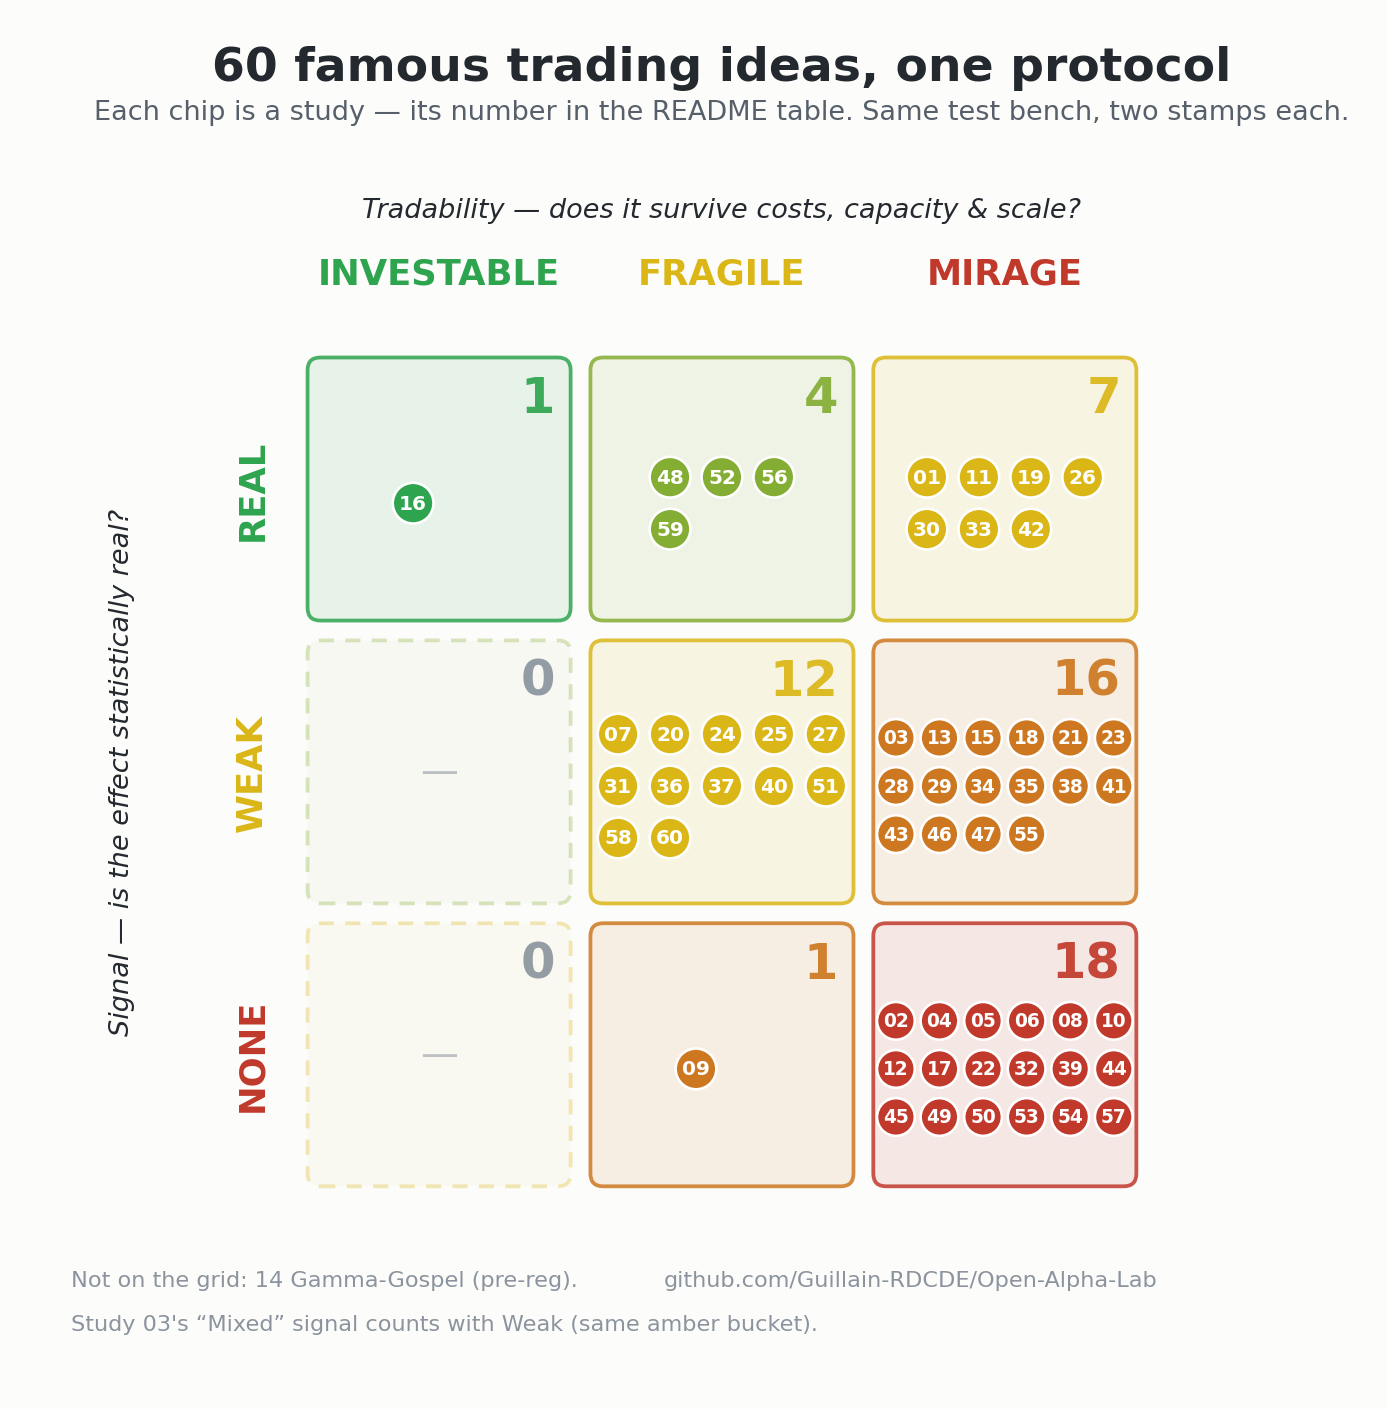
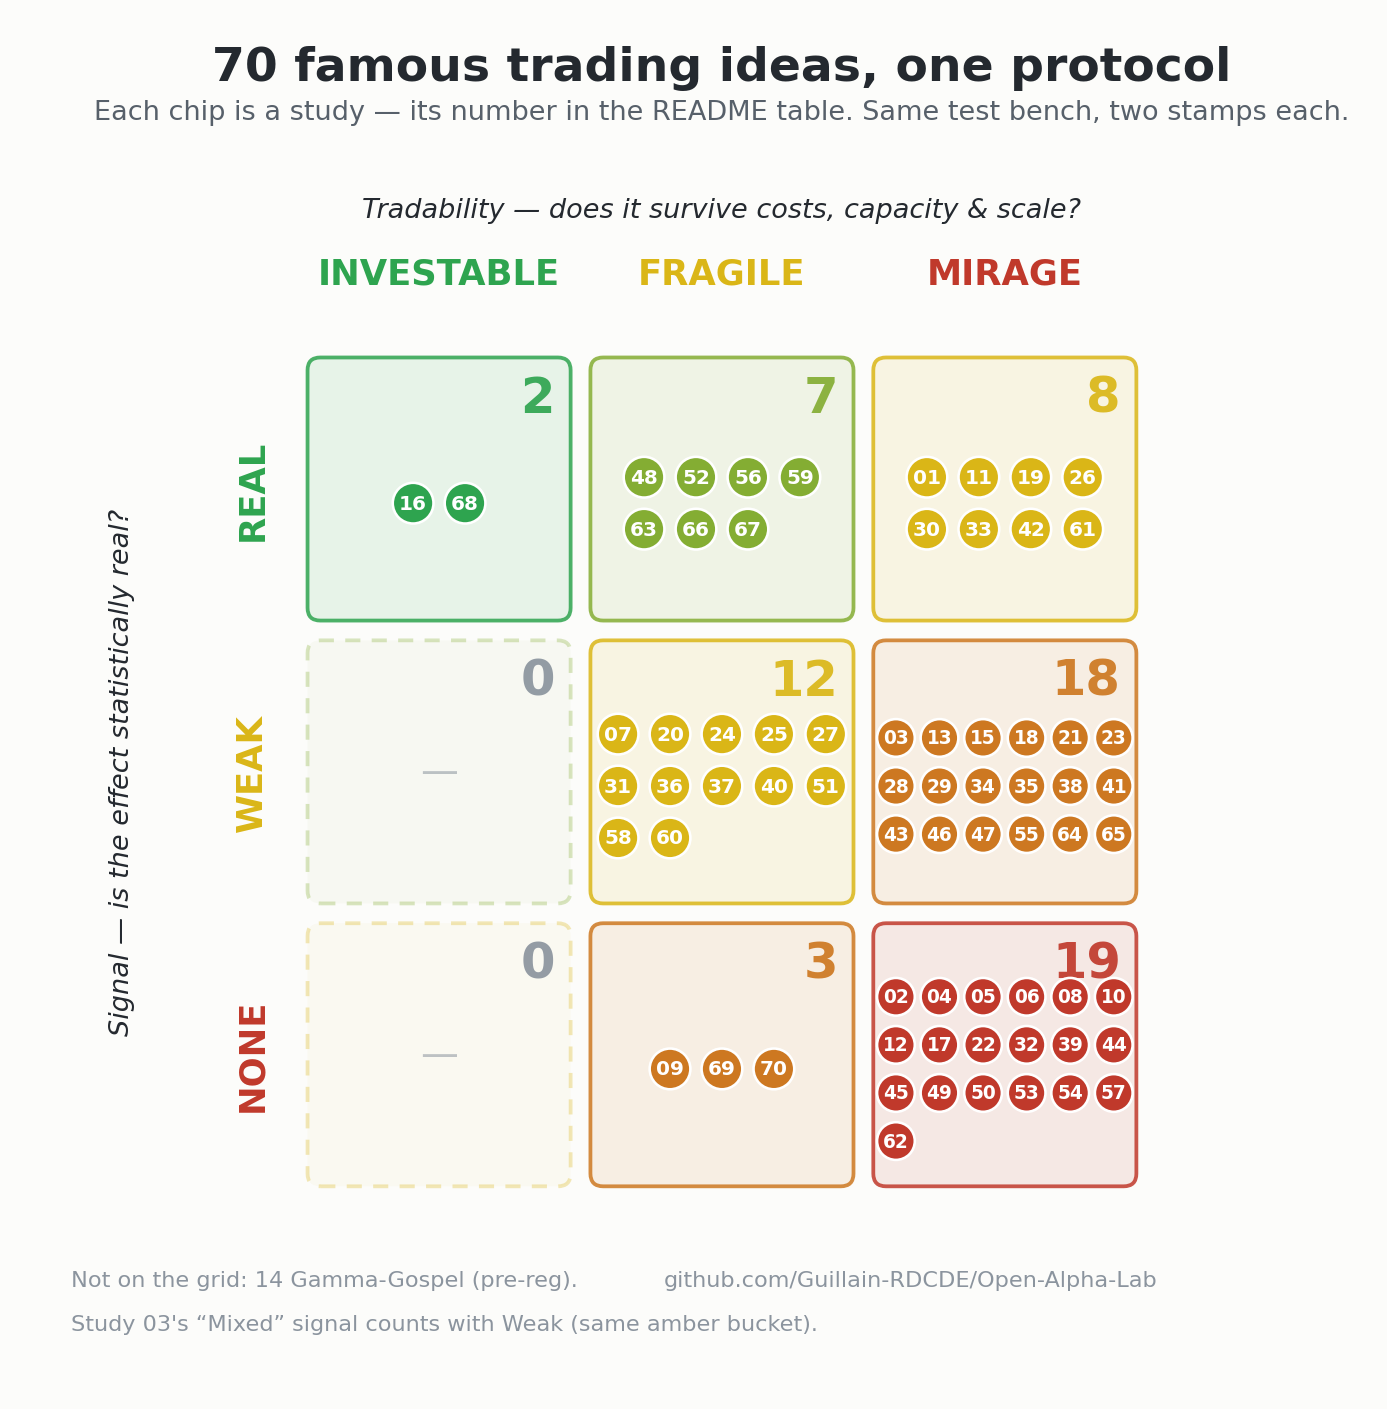
Bench page and map refreshed at 70 studies - two green chips now, neither predicts returns

diff --git a/docs/bench.md b/docs/bench.md
@@ -1,12 +1,12 @@
-# What 60 teardowns taught us
+# What 70 teardowns taught us
 
-*Sixty famous trading ideas — anomalies, folk strategies, vendor backtests, things
+*Seventy famous trading ideas — anomalies, folk strategies, vendor backtests, things
 people swear by — each put through the [same protocol](../METHODOLOGY.md) and
 stamped twice: **is the signal real?** and **does it survive real execution and
 scale?** This page is the view from above. It aggregates; it doesn't re-judge —
 every verdict below links back to the study that earned it.*
 
-![The bench map — 60 studies on a Signal × Tradability grid](bench_map.png)
+![The bench map — 70 studies on a Signal × Tradability grid](bench_map.png)
 
 *(Regenerate with `python tools/make_bench_figures.py` — it parses the
 [README table](../README.md), so it's always in sync.)*
@@ -15,50 +15,56 @@ every verdict below links back to the study that earned it.*
 
 ## The score
 
-Of the 60 studies on the bench, 59 carry final stamps (study
+Of the 70 studies on the bench, 69 carry final stamps (study
 [14](../studies/14-gamma-gospel/) is pre-registered, verdict pending):
 
 | | Investable | Fragile | Mirage | |
 |---|:--:|:--:|:--:|:--:|
-| **Real** | **1** | 5 | 7 | 13 |
-| **Weak** | 0 | 11 | 16 | 27 |
-| **None** | 0 | 1 | 18 | 19 |
-| | **1** | **17** | **41** | **59** |
+| **Real** | **2** | 7 | 8 | 17 |
+| **Weak** | 0 | 12 | 18 | 30 |
+| **None** | 0 | 3 | 19 | 22 |
+| | **2** | **22** | **45** | **69** |
 
 Read it the way the colours tell you to:
 
-- **13 / 59 signals are statistically real.** Roughly one famous idea in five
-  survives autocorrelation-robust inference. The other four-fifths are weak
-  (27) or plain noise (19).
-- **41 / 59 are mirages once you try to trade them.** Costs, capacity,
+- **17 / 69 signals are statistically real.** Roughly one famous idea in four
+  survives autocorrelation-robust inference. The other three-quarters are weak
+  (30) or plain noise (22).
+- **45 / 69 are mirages once you try to trade them.** Costs, capacity,
   decay, or the discovery that the "edge" was beta all along.
-- **Exactly 1 / 59 is investable.** [Storm-Shy](../studies/16-storm-shy/) —
-  and tellingly, it isn't a return predictor at all. It's a risk-management
-  overlay.
+- **Exactly 2 / 69 are investable.** [Storm-Shy](../studies/16-storm-shy/) and
+  [All-Weather](../studies/68-all-weather/) — and tellingly, neither is a
+  return predictor. One is a risk-management overlay, the other is
+  diversification. The bench's only greens don't forecast anything.
 
 The single most important cell isn't the green one — it's **Real × Mirage
-(7 studies)**. Seven effects that are *genuinely there in the data* and still
+(8 studies)**. Eight effects that are *genuinely there in the data* and still
 can't pay you. That gap between "true" and "tradable" is the bench's whole
 thesis, measured.
+
+A quieter cell worth a look: **None × Fragile (3 studies)** — gold
+[[69](../studies/69-safe-haven/)] and bitcoin [[70](../studies/70-digital-gold/)]
+flunk the *claims* made for them (inflation hedge, digital haven) yet keep a
+Fragile stamp as plain diversifiers. The story dies; the asset survives.
 
 ---
 
 ## Where ideas go to die — mortality by family
 
-We sorted the 60 into rough families. The boundaries are judgement calls (is
+We sorted the 70 into rough families. The boundaries are judgement calls (is
 the 52-week high a chart pattern or a momentum factor? we said factor) — the
 totals below are honest, the taxonomy is approximate.
 
 | Family | Studies | Real | Survived costs* | Investable |
 |---|:--:|:--:|:--:|:--:|
-| Equity factors & fundamentals — [18](../studies/18-dull-roar/) [34](../studies/34-aftershock/) [38](../studies/38-chorus/) [43](../studies/43-free-lunch/) [44](../studies/44-growth-spurt/) [45](../studies/45-vanishing-act/) [46](../studies/46-bargain-bin/) [50](../studies/50-high-water/) [51](../studies/51-blue-chip/) [52](../studies/52-smoke-screen/) [53](../studies/53-jackpot/) [54](../studies/54-static/) [57](../studies/57-yield-trap/) [58](../studies/58-bunker/) | 14 | 1 | 3 | 0 |
+| Equity factors & fundamentals — [18](../studies/18-dull-roar/) [34](../studies/34-aftershock/) [38](../studies/38-chorus/) [43](../studies/43-free-lunch/) [44](../studies/44-growth-spurt/) [45](../studies/45-vanishing-act/) [46](../studies/46-bargain-bin/) [50](../studies/50-high-water/) [51](../studies/51-blue-chip/) [52](../studies/52-smoke-screen/) [53](../studies/53-jackpot/) [54](../studies/54-static/) [57](../studies/57-yield-trap/) [58](../studies/58-bunker/) [64](../studies/64-share-shuffle/) [65](../studies/65-scorecard/) | 16 | 1 | 3 | 0 |
+| Vol, hedges & allocation — [03](../studies/03-fear-gauge/) [06](../studies/06-clockwork-vol/) [16](../studies/16-storm-shy/) [30](../studies/30-house-edge/) [61](../studies/61-slow-burn/) [62](../studies/62-premium-seller/) [63](../studies/63-free-fall/) [68](../studies/68-all-weather/) [69](../studies/69-safe-haven/) [70](../studies/70-digital-gold/) | 10 | 5 | 5 | **2** |
 | Technical & chart patterns — [02](../studies/02-falling-knife/) [07](../studies/07-coiled-spring/) [08](../studies/08-true-strength/) [13](../studies/13-crimson-hour/) [15](../studies/15-sigma-sleight/) [17](../studies/17-glass-ceiling/) [19](../studies/19-rubber-band/) [21](../studies/21-fools-gold/) [22](../studies/22-crystal-ball/) | 9 | 1 | 1 | 0 |
 | Momentum & trend — [20](../studies/20-freight-train/) [24](../studies/24-stampede/) [25](../studies/25-clean-slate/) [28](../studies/28-carousel/) [31](../studies/31-trade-winds/) [40](../studies/40-paper-tiger/) | 6 | 0 | 5 | 0 |
 | Carry, curves & commodities — [27](../studies/27-steamroller/) [29](../studies/29-hedgers-toll/) [35](../studies/35-contango/) [36](../studies/36-greenback/) [59](../studies/59-downhill/) [60](../studies/60-long-shot/) | 6 | 1 | 4 | 0 |
-| Calendar & seasonal — [01](../studies/01-overnight-anomaly/) [41](../studies/41-hangover/) [42](../studies/42-last-call/) [48](../studies/48-groundhog/) [55](../studies/55-summer-lull/) | 5 | 3 | 1 | 0 |
+| Calendar & seasonal — [01](../studies/01-overnight-anomaly/) [41](../studies/41-hangover/) [42](../studies/42-last-call/) [48](../studies/48-groundhog/) [55](../studies/55-summer-lull/) [67](../studies/67-fed-drift/) | 6 | 4 | 2 | 0 |
 | Mean reversion & stat-arb — [05](../studies/05-twin-spread/) [23](../studies/23-broken-tether/) [26](../studies/26-sand-castle/) [32](../studies/32-rip-tide/) [33](../studies/33-slingshot/) | 5 | 2 | 0 | 0 |
-| Vol & risk overlays — [03](../studies/03-fear-gauge/) [06](../studies/06-clockwork-vol/) [16](../studies/16-storm-shy/) [30](../studies/30-house-edge/) | 4 | 2 | 1 | **1** |
-| Macro & valuation timing — [37](../studies/37-barometer/) [47](../studies/47-paper-moon/) [49](../studies/49-black-gold/) [56](../studies/56-tide-table/) | 4 | 1 | 2 | 0 |
+| Macro & valuation timing — [37](../studies/37-barometer/) [47](../studies/47-paper-moon/) [49](../studies/49-black-gold/) [56](../studies/56-tide-table/) [66](../studies/66-inverted/) | 5 | 2 | 3 | 0 |
 | ML & model forecasting — [10](../studies/10-markov-mint/) [12](../studies/12-paper-prophet/) [39](../studies/39-black-box/) | 3 | 0 | 0 | 0 |
 | Microstructure & crowds — [04](../studies/04-social-oracle/) [09](../studies/09-phantom-kernel/) [11](../studies/11-vanishing-penny/) | 3 | 1 | 1 | 0 |
 | Pre-registered — [14](../studies/14-gamma-gospel/) | 1 | — | — | — |
@@ -72,9 +78,10 @@ Three patterns jump out:
   model-driven forecaster — Markov pipeline [10], ARIMA+GARCH [12], neural net
   [39] — produced an in-sample story and an out-of-sample coin flip.
 - **Calendar effects are the opposite failure mode: the most *real* per
-  capita (3 of 5) and almost none tradable.** The pattern is genuinely in the
+  capita (4 of 6) and almost none tradable.** The pattern is genuinely in the
   data; the trade built on it forfeits more than it captures
-  ([42](../studies/42-last-call/), [55](../studies/55-summer-lull/)).
+  ([42](../studies/42-last-call/), [55](../studies/55-summer-lull/)) — or dies
+  the moment it's published ([67](../studies/67-fed-drift/)).
 - **Momentum, trend and carry don't die — they limp.** These families
   collect Fragile stamps, not Mirage ones (momentum 5/6 alive-but-thin, carry
   4/6): premia with a century of literature that one tape can't certify and
@@ -87,7 +94,7 @@ Three patterns jump out:
 These aren't opinions — each one fell out of multiple studies independently.
 
 **1 · The edge dies at the costs line, not the signal line.**
-Of the 12 statistically real signals, 11 failed or barely survived
+Of the 17 statistically real signals, 15 failed or barely survived
 tradability. The overnight drift is real and untradable
 [[01](../studies/01-overnight-anomaly/)]; intraday reversal is real with a
 3.31 bp break-even that lives in the least-liquid names
@@ -103,16 +110,21 @@ inverts them.**
 On a survivor panel of large caps, the lottery effect ran *backwards*
 (−10.4%/yr, *t* = −2.5) [[53](../studies/53-jackpot/)], the idiosyncratic-vol
 puzzle inverted decisively [[54](../studies/54-static/)], the 52-week-high
-premium came out negative [[50](../studies/50-high-water/)], and asset-growth
-showed nothing where the literature's premium hides in micro-caps
+premium came out negative [[50](../studies/50-high-water/)], the net-issuance
+hedge flipped because the decade's diluters were the growth winners
+[[64](../studies/64-share-shuffle/)], and asset-growth showed nothing where
+the literature's premium hides in micro-caps
 [[44](../studies/44-growth-spurt/)]. When we found a positive result on a
 survivor panel, we capped it as an upper bound
 [[48](../studies/48-groundhog/)] — the bias cuts both ways and we say which.
 
 **3 · Post-publication decay is the norm, not the exception.**
-The size premium is the cleanest case: +0.1%/yr over 39 years, sign-flipped
-since 2010 [[45](../studies/45-vanishing-act/)]. Turn-of-the-month faded from
-13.8 to 4.8 bp/day after 2008 [[42](../studies/42-last-call/)];
+The pre-FOMC drift is the most spectacular case on the bench: 3% of sessions
+carried 11.5% of SPY's entire cumulative return — until Lucca-Moench published
+it in 2011 and the drift collapsed from +0.24%/day to +0.09%
+[[67](../studies/67-fed-drift/)]. The size premium never showed at all on a
+39-year tradable proxy [[45](../studies/45-vanishing-act/)]; turn-of-the-month
+faded from 13.8 to 4.8 bp/day after 2008 [[42](../studies/42-last-call/)];
 betting-against-beta decayed 0.70 → 0.28 [[43](../studies/43-free-lunch/)];
 textbook pairs stopped paying once everyone copied them
 [[05](../studies/05-twin-spread/)]; the vendor's dual-momentum edge thinned
@@ -127,33 +139,42 @@ Betting against beta needs 2.78× leverage to be market-neutral, and realistic
 financing drags its Sharpe from 0.47 to 0.02
 [[43](../studies/43-free-lunch/)]. The retail CFD markup — charged on the
 whole notional, not the borrowed slice — costs a levered dip-buyer 2.65
-pts/yr [[30](../studies/30-house-edge/)]. Extending duration for term premium
-*lowers* the Sharpe [[59](../studies/59-downhill/)], and vol-targeting the
+pts/yr [[30](../studies/30-house-edge/)]. The 3× ETF "free amplifier" tripled
+the drawdown, not the Sharpe (0.90 vs 0.98, −82% trough)
+[[61](../studies/61-slow-burn/)]; extending duration for term premium
+*lowers* the Sharpe [[59](../studies/59-downhill/)]; and vol-targeting the
 carry trade makes its crash *worse* [[27](../studies/27-steamroller/)]. When
 a strategy's appeal is "same return, just levered," the lender has already
 priced your idea.
 
-**5 · The only thing still green on the bench is risk management — not
-prediction.**
-The lone Investable stamp scales exposure *down* when markets get loud
-[[16](../studies/16-storm-shy/)]. The honest fix for carry's crash is
+**5 · The only things still green on the bench manage risk — nothing that
+predicts returns pays.**
+Both Investable stamps are risk machinery: one scales exposure *down* when
+markets get loud [[16](../studies/16-storm-shy/)], the other balances risk
+across assets and wins on Sharpe, not return
+[[68](../studies/68-all-weather/)]. The honest fix for carry's crash is
 diversification, not a smarter signal [[36](../studies/36-greenback/)]; a
 thin trend sleeve earns its keep as crisis alpha inside a 60/40, not
-standalone [[31](../studies/31-trade-winds/)]; blending decorrelated signals
-genuinely raises Sharpe — until a losing leg dilutes it
-[[38](../studies/38-chorus/)]; and the min-vol ETF really does cut risk, just
-not beat the market [[58](../studies/58-bunker/)]. Nothing on this bench
-forecasts returns and pays. Several things manage risk and do.
+standalone [[31](../studies/31-trade-winds/)]; gold and bitcoin flunk their
+hedge stories yet survive as diversifiers
+[[69](../studies/69-safe-haven/), [70](../studies/70-digital-gold/)]; and the
+min-vol ETF really does cut risk, just not beat the market
+[[58](../studies/58-bunker/)]. Nothing on this bench forecasts returns and
+pays. Several things manage risk and do.
 
 ---
 
 ## The podium
 
-**🟩 The one that made it.**
+**🟩 The two that made it.**
 [**16 · Storm-Shy**](../studies/16-storm-shy/) — Real × Investable. Scale
 exposure down when realized vol spikes. It survives robust inference, real
-costs, and capacity — and note what it is: not an alpha, a *risk overlay*. The
-bench's only green chip doesn't predict anything.
+costs, capacity, a parameter sweep and a third tape — and note what it is: not
+an alpha, a *risk overlay*.
+[**68 · All-Weather**](../studies/68-all-weather/) — Real × Investable. Risk
+parity earns the best Sharpe of anything we tested (0.92) with a third of
+equities' drawdown — by predicting nothing and balancing everything. Half the
+*return* of stocks, though: the green is risk-adjusted, not absolute.
 
 **🟨 The honest fragiles** — Real signals that survive on paper but are thin,
 decaying, or capacity-starved. Worth knowing; not worth quitting your job for:
@@ -164,13 +185,16 @@ decaying, or capacity-starved. Worth knowing; not worth quitting your job for:
 | [52](../studies/52-smoke-screen/) | Smoke-Screen | Accruals: cash-backed earnings win, Sharpe 0.64 | Short-side costs; documented post-2000 fade |
 | [56](../studies/56-tide-table/) | Tide-Table | CAPE forecasts 10-year returns (R² 0.28) | A tide table, not a stopwatch — useless at 1 year |
 | [59](../studies/59-downhill/) | Downhill | Term premium, +2.2%/yr over cash | Sharpe 0.32 vs cash's 1.82; 2022 took −23% |
+| [63](../studies/63-free-fall/) | Free-Fall | Short-vol carry, +12%/yr (SVXY) | Skew −4.8, one −83% day; five crash days wiped 95% |
+| [66](../studies/66-inverted/) | Inverted | Curve inversion → +1% next 18m vs +16% normal | ~5% of months, a year of melt-up first — no sell button |
+| [67](../studies/67-fed-drift/) | Fed-Drift | Pre-FOMC drift carried 11.5% of SPY's return | Publication killed it: +0.24%/day → +0.09% after 2011 |
 
 ---
 
 ## Challenge the bench
 
-This page will be wrong eventually — that's the design. Sixty verdicts is
-sixty falsifiable claims, each with reproducible code, pinned data
+This page will be wrong eventually — that's the design. Seventy verdicts is
+seventy falsifiable claims, each with reproducible code, pinned data
 fingerprints, and the exact line where we think the dream dies.
 
 - **Think a Mirage is tradable?** Fork the study, change the cost model or

diff --git a/README.md b/README.md
@@ -40,12 +40,12 @@ style is written up in **[METHODOLOGY.md](METHODOLOGY.md)**.
 ## The map
 
 The whole bench on one grid — every study is a numbered chip, sorted by its two stamps.
-Almost everything ends up bottom-right; one chip is green.
+Almost everything ends up bottom-right; two chips are green — and neither one predicts returns.
 
 ![The bench map — every study placed on a Signal × Tradability grid](docs/bench_map.png)
 
 The counts, the mortality by family of idea, and the five lessons the bench keeps
-teaching are in **[What 60 teardowns taught us](docs/bench.md)**.
+teaching are in **[What 70 teardowns taught us](docs/bench.md)**.
 
 ---
 
